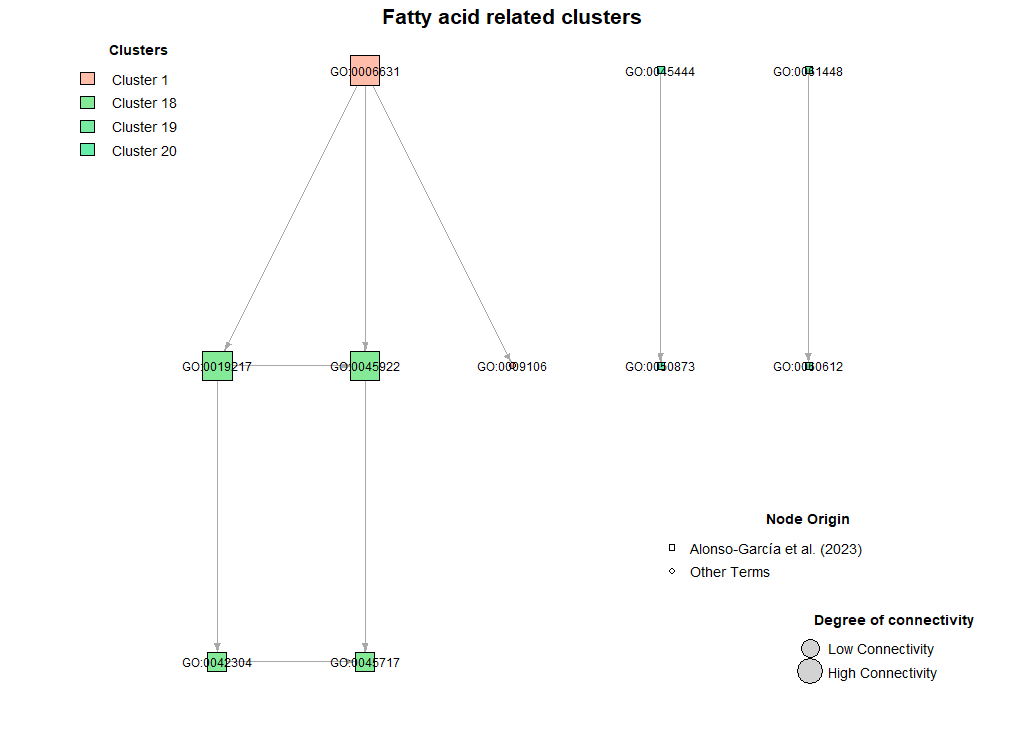
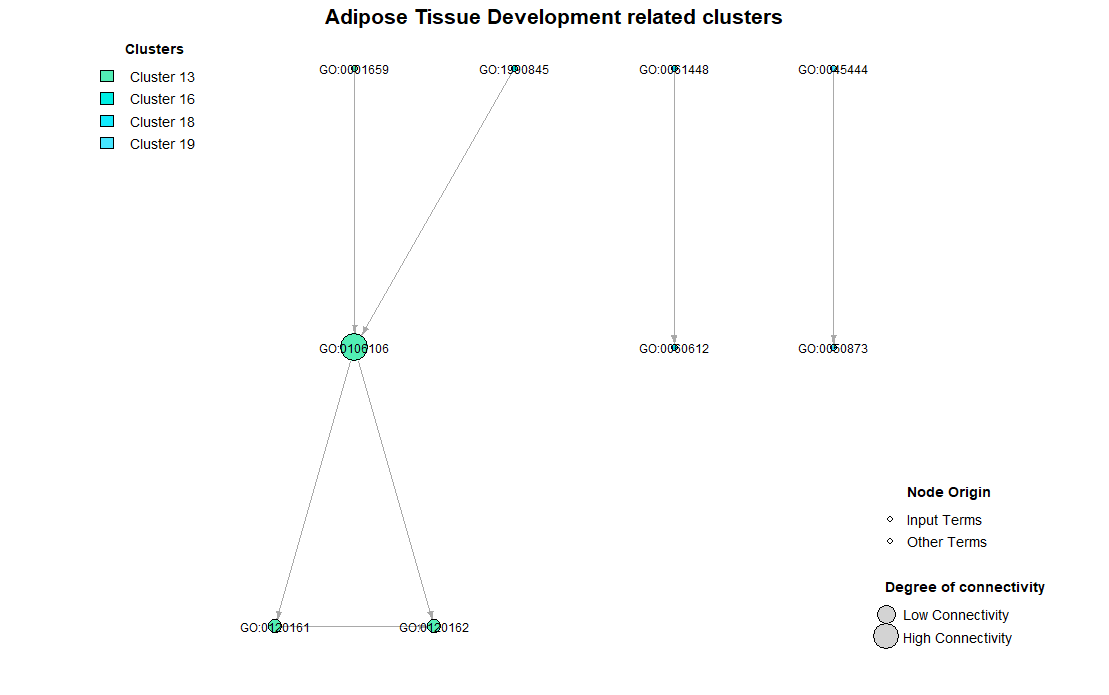
Fixing bugs

diff --git a/README.md b/README.md
@@ -361,7 +361,7 @@ The last step is to represent the relationships between the GO-terms of interest
 
 ``` r
 visualizeGO(cluster = cluster, graph = graph,
-shape1 = "square",
+shape = "circle",
 min_node_size = 1, max_node_size = 10, 
 layout = "tree", 
 title = "Alonso-García et al. (2023)",
@@ -384,7 +384,7 @@ to adipose tissue development.
 ``` r
 visualizeGO(cluster = cluster, graph = graph,
 selected_cluster = c(13,16,18,19), 
-shape1 = "circle", min_node_size = 2.5, max_node_size = 10, 
+shape = "circle", min_node_size = 2.5, max_node_size = 10, 
 layout = "tree", col_palette = colors[c(13,16,18,19)], 
 title = "Adipose Tissue Development related clusters",
 verbose = "some", legend = T, ID = T,
